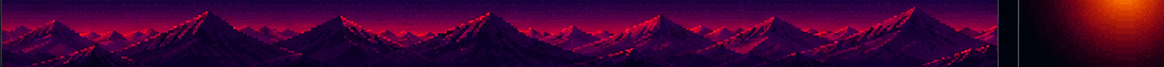
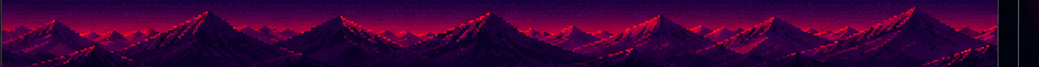
Fix retro sprite bleed-through, undersized chroma key, oversized cacti
The previous extraction had three bugs causing the mess on screen:

1. Strip crops extended to x=1175 in the source sheet, but the SKY
   GRADIENT panel actually ends at x≈1050. The extra 125 px on the
   right caught the left half of the SUN (CENTER) sprite from the
   adjacent panel — so every strip rendered with a ghostly sun bleed
   on the right edge of the canvas. Re-cropped sky/far/mid mountains
   to x_end=1050.

2. Cactus and sun chroma-key threshold was 10, but the source
   reference's background was dark navy (R≈3, G≈3, B≈14 — the blue
   channel exceeds 10). The keyer only zeroed pure black, leaving
   visible navy boxes around every sprite. Raised the threshold to
   28, and tightened the cactus crop to its actual pixel bounds.

3. The cactus image is 26x68 px native and was rendering at 1× scale
   — taller than the procedural terrain ridge, so cacti floated
   among the mountains. Now scaled to 0.5 and the natural cactus
   silhouette sits cleanly on the dirt.

Layout adjustments:
- Sky strip now uses setDisplaySize instead of separate width/height
  assignments (clearer, single call).
- Layer y-bounds reshuffled to overlap slightly so the gradient seams
  between strips blend: sky 0–130, far mountains 110–200, mid
  mountains 178–356.
- Sun centered at y=130 (behind the far mountains, peeking above the
  mid-mountain peaks) at 1× scale (120 px) instead of the previous
  oversized 1.4×.

diff --git a/src/game/scenes/GameScene.ts b/src/game/scenes/GameScene.ts
@@ -18,19 +18,23 @@ import {
 } from '../types/GameTypes';
 
 // Retro pixel backdrop layout (within the 356 px battlefield height).
+// Strips are drawn at sizes chosen to layer with slight overlap so their
+// gradient edges blend, and so the sun (centered behind the far mountains)
+// pokes above the mid mountain peaks like in the reference scene.
 const RETRO_LAYOUT = {
   skyY: 0,
-  skyHeight: 162,
-  farMountainsY: 162,
-  farMountainsHeight: 96,
-  midMountainsY: 230,
-  midMountainsHeight: 126,
+  skyHeight: 130,
+  farMountainsY: 110,
+  farMountainsHeight: 90,
+  midMountainsY: 178,
+  midMountainsHeight: 178,
   sunX: 480,
-  sunY: 100,
-  sunScale: 1.4
+  sunY: 130,
+  sunScale: 1.0
 };
 
-const RETRO_CACTUS_POSITIONS = [0.06, 0.27, 0.42, 0.58, 0.72, 0.94] as const;
+const RETRO_CACTUS_POSITIONS = [0.07, 0.28, 0.43, 0.58, 0.72, 0.93] as const;
+const RETRO_CACTUS_SCALE = 0.5;
 
 export class GameScene extends Phaser.Scene {
   private backgroundGraphics!: Phaser.GameObjects.Graphics;
@@ -80,9 +84,10 @@ export class GameScene extends Phaser.Scene {
 
     // Retro layers sit between background fill and procedural terrain. They
     // are only made visible when visualSystem === 'retroPixel'.
-    this.retroSky = this.add.image(GAME_CONFIG.width / 2, RETRO_LAYOUT.skyY, 'retro-sky').setOrigin(0.5, 0);
-    this.retroSky.displayWidth = GAME_CONFIG.width;
-    this.retroSky.displayHeight = RETRO_LAYOUT.skyHeight;
+    this.retroSky = this.add
+      .image(GAME_CONFIG.width / 2, RETRO_LAYOUT.skyY, 'retro-sky')
+      .setOrigin(0.5, 0);
+    this.retroSky.setDisplaySize(GAME_CONFIG.width, RETRO_LAYOUT.skyHeight);
 
     this.retroSun = this.add.image(RETRO_LAYOUT.sunX, RETRO_LAYOUT.sunY, 'retro-sun').setOrigin(0.5, 0.5);
     this.retroSun.setScale(RETRO_LAYOUT.sunScale);
@@ -90,20 +95,18 @@ export class GameScene extends Phaser.Scene {
     this.retroFarMountains = this.add
       .image(GAME_CONFIG.width / 2, RETRO_LAYOUT.farMountainsY, 'retro-far-mountains')
       .setOrigin(0.5, 0);
-    this.retroFarMountains.displayWidth = GAME_CONFIG.width;
-    this.retroFarMountains.displayHeight = RETRO_LAYOUT.farMountainsHeight;
+    this.retroFarMountains.setDisplaySize(GAME_CONFIG.width, RETRO_LAYOUT.farMountainsHeight);
 
     this.retroMidMountains = this.add
       .image(GAME_CONFIG.width / 2, RETRO_LAYOUT.midMountainsY, 'retro-mid-mountains')
       .setOrigin(0.5, 0);
-    this.retroMidMountains.displayWidth = GAME_CONFIG.width;
-    this.retroMidMountains.displayHeight = RETRO_LAYOUT.midMountainsHeight;
+    this.retroMidMountains.setDisplaySize(GAME_CONFIG.width, RETRO_LAYOUT.midMountainsHeight);
 
     this.terrainGraphics = this.add.graphics();
 
     // Cacti sit above terrain but below tanks/projectiles.
     this.retroCacti = RETRO_CACTUS_POSITIONS.map(() =>
-      this.add.image(0, 0, 'retro-cactus').setOrigin(0.5, 1).setScale(1)
+      this.add.image(0, 0, 'retro-cactus').setOrigin(0.5, 1).setScale(RETRO_CACTUS_SCALE)
     );
 
     this.tankGraphics = this.add.graphics();
